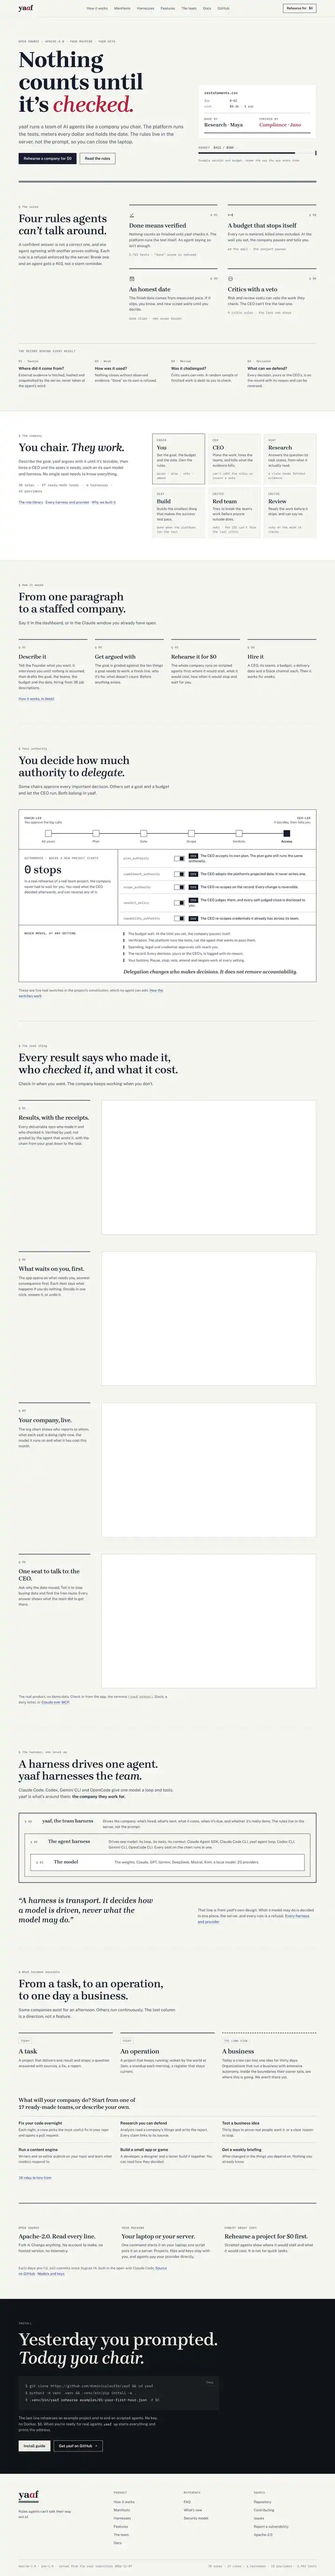
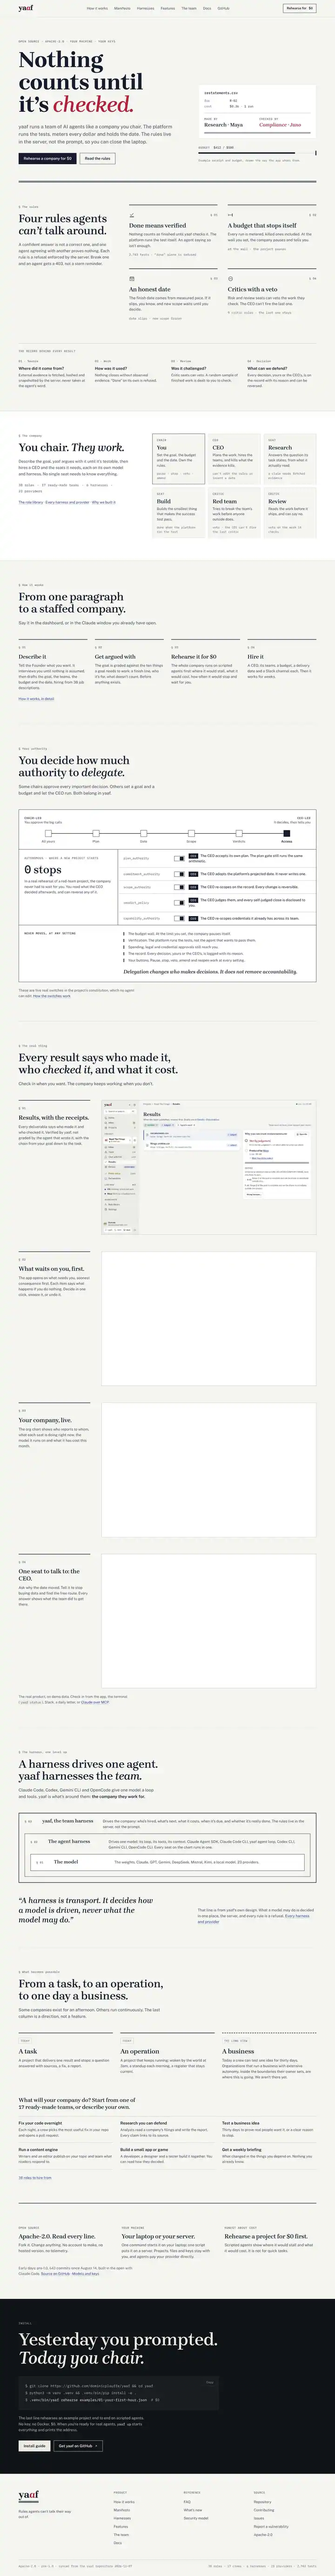
Hold running text to a 72-character measure
ch is the width of a zero, about a third wider than the average letter
in Public Sans, so the 60-70ch limits let lines run past 80 characters.
One --measure (34em) now sets the limit for ledes, notes and prose.

Claude-Session: https://claude.ai/code/session_01TVZVMvDEBsAJwYD2YFrztN

Changed region(s): [[0.3056, 0.4354, 0.4889, 0.4976], [0.7333, 0.4354, 0.9167, 0.4665]]

diff --git a/src/styles/global.css b/src/styles/global.css
@@ -52,6 +52,9 @@
   --gutter: 20px;
   /* Padding inside a ruled box, so words never touch its border. */
   --inset: 20px;
+  /* The reading measure: about 72 characters of Public Sans, whatever the size.
+     (ch is the width of a zero, which is a third wider than the average letter.) */
+  --measure: 34em;
   --ease: var(--yaaf-motion-ease);
   --fast: var(--yaaf-motion-fast);
   --base: var(--yaaf-motion-base);
@@ -209,7 +212,7 @@ h4, h5, h6 { font-family: var(--font-sans); font-weight: 600; letter-spacing: 0;
   max-width: 22ch;
   text-wrap: balance;
 }
-.head > .lede { margin: var(--yaaf-space-5) 0 0; font-size: 18px; line-height: 1.55; color: var(--yaaf-ink-2); max-width: 62ch; text-wrap: pretty; }
+.head > .lede { margin: var(--yaaf-space-5) 0 0; font-size: 18px; line-height: 1.55; color: var(--yaaf-ink-2); max-width: var(--measure); text-wrap: pretty; }
 .head > .lede strong { color: var(--yaaf-ink); font-weight: 600; }
 
 /* --- cells: a grid of ruled boxes -------------------------------------------
@@ -252,7 +255,7 @@ a.cell:hover { background: var(--yaaf-surface-2); }
 .num, .cell .num { font-size: clamp(2rem, 1.5rem + 1.6vw, 3rem); font-weight: 500; letter-spacing: -0.02em; line-height: 1; margin: 0 0 1rem; color: var(--yaaf-ink); }
 
 /* --- small things ----------------------------------------------------------- */
-.note { margin: var(--yaaf-space-6) 0 0; font-size: 15px; line-height: 1.6; color: var(--yaaf-muted); max-width: 70ch; }
+.note { margin: var(--yaaf-space-6) 0 0; font-size: 15px; line-height: 1.6; color: var(--yaaf-muted); max-width: var(--measure); }
 .note strong { color: var(--yaaf-ink-2); font-weight: 600; }
 
 .pill {
@@ -335,7 +338,7 @@ code.inline, .cell code, .note code, .head code, .kit-table code {
   max-width: 18ch;
   text-wrap: balance;
 }
-.page-hero .lede { margin: var(--yaaf-space-6) 0 0; font-size: 18px; line-height: 1.55; color: var(--yaaf-ink-2); max-width: 60ch; text-wrap: pretty; }
+.page-hero .lede { margin: var(--yaaf-space-6) 0 0; font-size: 18px; line-height: 1.55; color: var(--yaaf-ink-2); max-width: var(--measure); text-wrap: pretty; }
 .page-hero .lede strong { color: var(--yaaf-ink); font-weight: 600; }
 .page-hero .btns { margin-top: var(--yaaf-space-7); }
 @media (max-width: 760px) { .page-hero { padding-block: var(--yaaf-space-10) var(--yaaf-space-9); } }
@@ -359,7 +362,7 @@ section[id], [id].anchor { scroll-margin-top: 84px; }
   color: var(--yaaf-ink-2);
   font-size: 16px;
   line-height: 1.65;
-  max-width: 70ch;
+  max-width: var(--measure);
 }
 .prose > * + * { margin-top: 1.1em; }
 .prose h1, .prose h2, .prose h3, .prose h4 {
